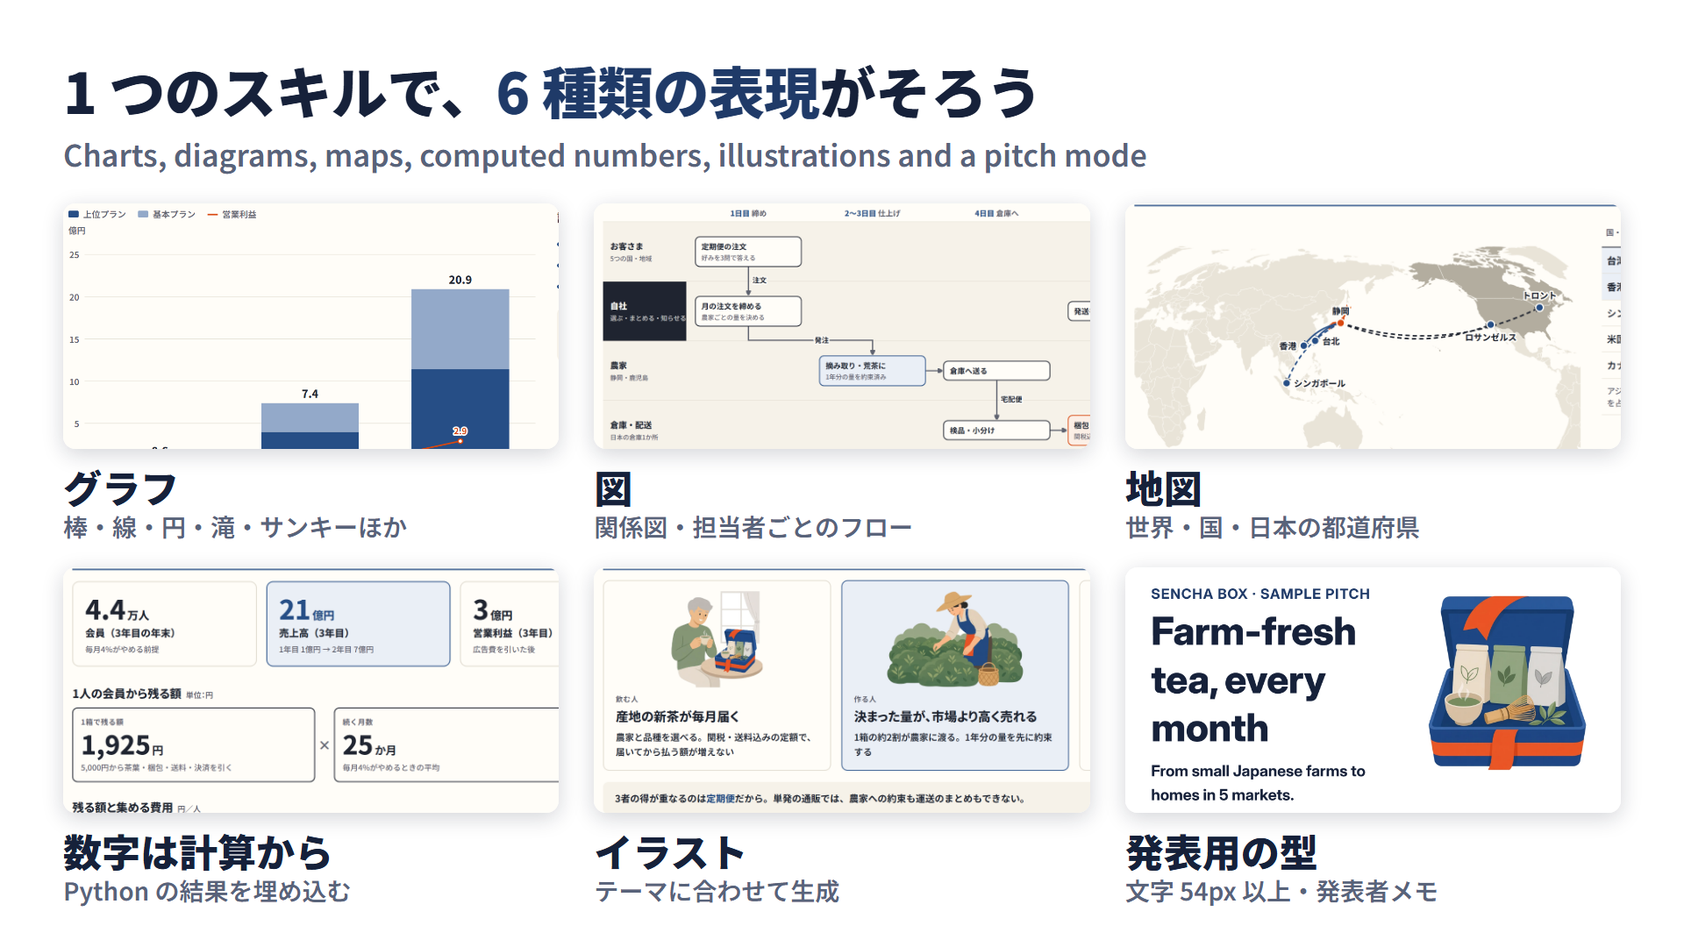
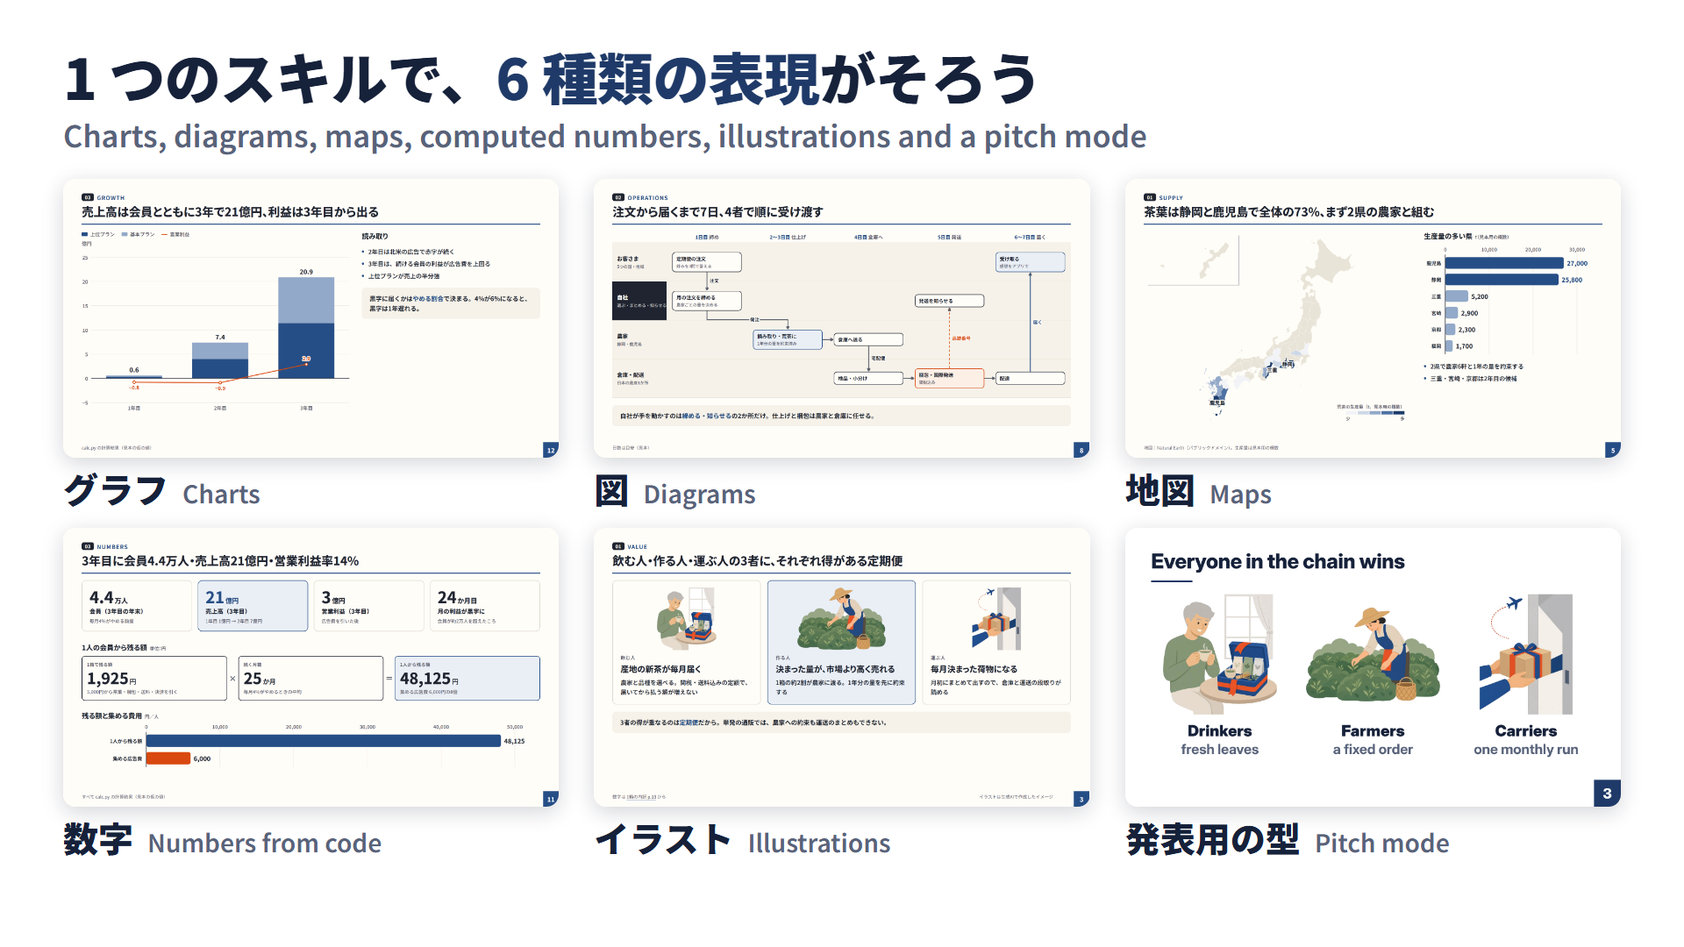
docs: detailed README with full demo slides for each feature
Show each capability (page pattern, charts, diagrams, maps, computed numbers, illustrations, pitch, checks, themes) with the actual demo slides and the code that produces them. features.png now shows whole slides instead of crops.

diff --git a/docs/figures/figures.html b/docs/figures/figures.html
@@ -451,8 +451,12 @@ body.presenter .np .next { font-size: 22px; margin-top: 26px; }
   #hero .stack img { position: absolute; width: 860px; border-radius: 12px; box-shadow: 0 20px 50px rgba(0, 0, 0, .35); }
 
   /* features */
-  .tiles { display: grid; grid-template-columns: repeat(3, 1fr); gap: 30px 40px; margin-top: 32px; }
-  .tiles .crop { height: 280px; }
+  #features { padding: 48px 72px; }
+  #features .fig-s { margin-top: 4px; }
+  .tiles { display: grid; grid-template-columns: repeat(3, 1fr); gap: 22px 40px; margin-top: 26px; }
+  .tiles .crop { aspect-ratio: 16 / 9; }
+  .tiles .lbl { display: flex; align-items: baseline; gap: 16px; font-size: 40px; margin-top: 12px; white-space: nowrap; }
+  .tiles .lbl small { display: inline; margin: 0; font-size: 28px; }
 
   /* workflow */
   .wf { display: grid; grid-template-columns: repeat(3, 1fr); gap: 48px 64px; margin-top: 44px; }
@@ -508,12 +512,12 @@ body.presenter .np .next { font-size: 22px; margin-top: 26px; }
   <div class="fig-h">1 つのスキルで、<em>6 種類の表現</em>がそろう</div>
   <div class="fig-s">Charts, diagrams, maps, computed numbers, illustrations and a pitch mode</div>
   <div class="tiles">
-    <div><div class="crop" data-src="../../examples/demo/png/12-growth.png" data-x="60" data-y="190" data-w="1100"></div><div class="lbl">グラフ<small>棒・線・円・滝・サンキーほか</small></div></div>
-    <div><div class="crop" data-src="../../examples/demo/png/08-lanes.png" data-x="50" data-y="200" data-w="1250"></div><div class="lbl">図<small>関係図・担当者ごとのフロー</small></div></div>
-    <div><div class="crop" data-src="../../examples/demo/png/04-markets.png" data-x="50" data-y="170" data-w="1150"></div><div class="lbl">地図<small>世界・国・日本の都道府県</small></div></div>
-    <div><div class="crop" data-src="../../examples/demo/png/11-kpi.png" data-x="50" data-y="170" data-w="1150"></div><div class="lbl">数字は計算から<small>Python の結果を埋め込む</small></div></div>
-    <div><div class="crop" data-src="../../examples/demo/png/03-value.png" data-x="50" data-y="170" data-w="1250"></div><div class="lbl">イラスト<small>テーマに合わせて生成</small></div></div>
-    <div><div class="crop" data-src="../../examples/demo/png-pitch/01-cover.png" data-x="0" data-y="0" data-w="1920"></div><div class="lbl">発表用の型<small>文字 54px 以上・発表者メモ</small></div></div>
+    <div><div class="crop" data-src="../../examples/demo/png/12-growth.png" data-x="0" data-y="0" data-w="1920"></div><div class="lbl">グラフ<small>Charts</small></div></div>
+    <div><div class="crop" data-src="../../examples/demo/png/08-lanes.png" data-x="0" data-y="0" data-w="1920"></div><div class="lbl">図<small>Diagrams</small></div></div>
+    <div><div class="crop" data-src="../../examples/demo/png/05-farms.png" data-x="0" data-y="0" data-w="1920"></div><div class="lbl">地図<small>Maps</small></div></div>
+    <div><div class="crop" data-src="../../examples/demo/png/11-kpi.png" data-x="0" data-y="0" data-w="1920"></div><div class="lbl">数字<small>Numbers from code</small></div></div>
+    <div><div class="crop" data-src="../../examples/demo/png/03-value.png" data-x="0" data-y="0" data-w="1920"></div><div class="lbl">イラスト<small>Illustrations</small></div></div>
+    <div><div class="crop" data-src="../../examples/demo/png-pitch/03-three.png" data-x="0" data-y="0" data-w="1920"></div><div class="lbl">発表用の型<small>Pitch mode</small></div></div>
   </div>
 </section>
 

diff --git a/README.md b/README.md
@@ -4,6 +4,7 @@
 
 **Cursor の Agent Skill：きれいな 1920×1080 の HTML スライドを、毎回同じ品質で作る。**
 グラフ・図・地図・計算の埋め込み・イラスト・PNG の書き出しと自動の検査まで 1 つに入っています。
+この README の画像は、すべてこのスキルで作った見本のスライド（`examples/demo/`）をそのまま書き出したものです。
 
 [日本語](#日本語) ・ [English](#english)
 
@@ -11,47 +12,234 @@
 
 ## 日本語
 
-### できること
+- [全体像](#全体像)
+- [使い方：頼むだけ](#使い方頼むだけ)
+- [できること（実際のスライド）](#できること実際のスライド)
+  - [1. ページの型：結論を言い切る見出し](#1-ページの型結論を言い切る見出し)
+  - [2. グラフ](#2-グラフ)
+  - [3. 図](#3-図)
+  - [4. 地図](#4-地図)
+  - [5. 数字は計算から](#5-数字は計算から)
+  - [6. イラスト](#6-イラスト)
+  - [7. 発表用の型（pitch）](#7-発表用の型pitch)
+  - [8. 崩れの自動検査](#8-崩れの自動検査)
+  - [9. テーマ](#9-テーマ)
+- [入れ方](#入れ方)・[手で使う](#手で使う)・[中身](#中身)・[ライセンス](#ライセンス)
+
+### 全体像
 
 ![グラフ・図・地図・数字・イラスト・発表用の型](docs/img/features.png)
 
-| | |
-|---|---|
-| **グラフ** | 縦棒・横棒・積み上げ（100% も）・棒と線の複合・線・面・ドーナツ・散布・バブル・滝・サンキー・ガント（自前の SVG） |
-| **図** | 関係図・担当者ごとのフロー図・循環図・ツリー。箱を並べると矢印は自動で引く |
-| **地図** | 世界・国ごと・日本の都道府県（沖縄の差し込み付き）の塗り分け・点・弧 |
-| **数字** | Python で計算した結果を埋め込み、スライドの数字とグラフが同じ元を指す。前提を変えても食い違わない |
-| **イラスト** | テーマごとに固定したスタイルで生成し、背景を透明にしてなじませる |
-| **オフライン** | 1 ファイルの HTML に全部を埋め込み、フォントも同梱。ネットなしで開ける |
+1 つの HTML ファイル（デッキ）に 1 ページ＝1 つの `<section>` を並べます。1920×1080 固定で、ブラウザの大きさに合わせて拡大縮小します。CSS・JS・データ・地図をファイルに埋め込み、フォント（Noto Sans JP・Inter）を同梱するので、**ネットなしで開けます**。
 
 ### 使い方：頼むだけ
 
 ![6 つの手順](docs/img/workflow.png)
 
-Cursor のチャットで「◯◯のスライドを作って」「グラフを入れて」「PNG に書き出して」と頼むと、Agent が [SKILL.md](SKILL.md) を読んで上の手順で仕上げます。
+Cursor のチャットで「◯◯の事業計画を 15 枚のスライドにして」「このページにグラフを入れて」「PNG に書き出して」と頼むと、Agent が [SKILL.md](SKILL.md) を読んで上の手順で仕上げます。最初に型（資料か発表か）・テーマ・言語を聞き、最後に全ページを検査して PNG を目で確かめます。
 
-### 崩れは自動で見つかる
+---
 
-![検査：直す前と直した後](docs/img/check.png)
+## できること（実際のスライド）
 
-Chrome で全ページを撮り、はみ出し・画面の外・小さすぎる文字・数字の抜けなどを赤枠で示します。「問題: なし」になるまで直してから書き出します。
+### 1. ページの型：結論を言い切る見出し
 
-### テーマと型
+![表紙](examples/demo/png/01-cover.png)
 
-![6 つのテーマ](docs/img/themes.png)
+<p>
+<img src="examples/demo/png/02-ch01.png" width="49%" alt="中扉">
+<img src="examples/demo/png/03-value.png" width="49%" alt="カードのページ">
+</p>
+
+どのページも **小見出し → 結論の 1 文（h1）→ 線 → 本文 → まとめの帯 → 注記** の同じ並びです。見出しは「市場規模」のような題名ではなく「アジアの 3 つの国・地域から始め、7 か月目に北米へ広げる」のように言い切るので、見出しだけ読めば話が通ります（書き方は [reference/writing.md](reference/writing.md)）。中扉には章の並びが自動で付き、今の章が分かります。
+
+```html
+<section id="value">
+  <div class="kicker"><span class="sec">01</span>VALUE</div>
+  <h1>飲む人・作る人・運ぶ人の3者に、それぞれ得がある定期便</h1>
+  <div class="rule"></div>
+  <div class="grid">
+    <div class="card"><img class="ill" src="illust/fan.webp" alt=""><div class="when">飲む人</div>
+      <h2>産地の新茶が毎月届く</h2><p>…</p></div>
+    <div class="card key">…</div>   <!-- key で強調（1 ページ 1〜2 か所） -->
+  </div>
+  <div class="strip">3者の得が重なるのは<b>定期便</b>だから。</div>
+  <div class="foot"><span>注記・出典</span></div>
+</section>
+```
+
+部品：カード・大きな数字（KPI）・足し算の流れ・時間の帯・表・横棒・左右の比べ・2×2・ピラミッド・ベン図・引用・画像（一覧は [reference/components.md](reference/components.md)）。
+
+### 2. グラフ
+
+![積み上げ棒と線の複合グラフ](examples/demo/png/12-growth.png)
+
+<p>
+<img src="examples/demo/png/13-unit.png" width="49%" alt="滝グラフ">
+<img src="examples/demo/png/14-mix.png" width="49%" alt="サンキーとドーナツ">
+</p>
+<p>
+<img src="examples/demo/png/15-members.png" width="49%" alt="面グラフと月次の棒">
+<img src="examples/demo/png/16-roadmap.png" width="49%" alt="ガント">
+</p>
+
+外部のライブラリを使わない自前の SVG で、テーマの色に自動で合います。上から **積み上げ棒＋線（右の軸も可）**、**滝**（1 箱の値段から利益まで）、**サンキー＋ドーナツ**、**面＋正負で色を変える棒**、**ガント**。ほかに横棒・100% 積み上げ・線・散布・バブル（下の「資料の見本の全 18 ページ」を開いた中の競合のページ）。`data-chart` に JSON を書くだけで描けます。
+
+```html
+<div class="chart" style="height:700px" data-chart='{
+  "type": "bar", "stacked": true, "labels": ["1年目","2年目","3年目"], "unit": "億円",
+  "series": [
+    {"name": "上位プラン", "values": "@byPlan.premium", "color": "accent"},
+    {"name": "基本プラン", "values": "@byPlan.standard", "color": "mid"},
+    {"name": "営業利益",   "values": "@op", "type": "line", "color": "warn"}
+  ]}'></div>
+```
+
+`"@byPlan.premium"` は計算結果（[5. 数字は計算から](#5-数字は計算から)）を指します。どのグラフを選ぶかの早見表は [reference/charts.md](reference/charts.md)。
+
+### 3. 図
+
+![担当者ごとのフロー図](examples/demo/png/08-lanes.png)
+
+<p>
+<img src="examples/demo/png/09-loop.png" width="49%" alt="関係図と循環図">
+<img src="examples/demo/png/17-base.png" width="49%" alt="ピラミッド">
+</p>
+
+**担当者ごとのフロー図**（行＝担当、列＝段階）、**関係図**（お金の流れは破線）、**循環図**、ピラミッド、ツリー。箱は HTML で並べ、矢印は箱の id をつなぐだけで自動で引きます（直線・カギ形・曲線、ラベルの位置も自動）。
+
+```html
+<div class="lanes dgm" style="--cols:5; --rows:4"
+     data-links='[["l1","l2","注文"],["l2","l3","発注"],["l6","l7","追跡番号",{"dash":true}],["l8","l9","届く",{"tone":"key"}]]'>
+  <div class="who">お客さま</div>
+  <div class="cell"><div class="box" id="l1">定期便の注文</div></div> …
+</div>
+```
+
+詳しくは [reference/diagrams.md](reference/diagrams.md)。
+
+### 4. 地図
+
+<p>
+<img src="examples/demo/png/04-markets.png" width="49%" alt="世界地図">
+<img src="examples/demo/png/05-farms.png" width="49%" alt="日本の都道府県の塗り分け">
+</p>
+
+**世界地図**（太平洋を中心に、国の塗り分け・都市の点・弧の矢印）と、**日本の都道府県の塗り分け**（凡例・沖縄の差し込み付き）。ほかに国ごとの地図も。Natural Earth のデータから SVG を作ってデッキに埋め込むので、ネットなしで表示でき、色はテーマに従います。
+
+```json
+{ "name": "markets", "pacific": true,
+  "fill":   { "TW": "accent", "HK": "accent", "SG": "mid", "US": "sub", "JP": "warn" },
+  "arcs":   [ { "from": [138.38, 34.98], "to": "Taipei", "cls": "accent" } ],
+  "points": [ { "city": "Taipei", "text": "台北", "label": "right" } ] }
+```
+
+```bash
+node scripts/make-map.mjs maps.json --into slides.html   # <!--MAP:markets--> の場所に書き込む
+```
+
+詳しくは [reference/maps.md](reference/maps.md)。
+
+### 5. 数字は計算から
+
+![KPI と計算の流れ](examples/demo/png/11-kpi.png)
+
+スライドの数字は手で打ちません。Python で計算した結果を JSON にしてデッキに埋め込み、`data-f` とグラフの `"@path"` で参照します。前提（やめる割合・広告費など）を 1 か所変えて 3 行を実行し直すと、**見出しの数字・カード・グラフ・地図がそろって変わり**、ページ間で数字が食い違いません。
+
+```python
+# data/calc.py（抜粋）
+CHURN = 0.04                                              # 毎月やめる割合
+COST = {"tea": 1100, "pack": 350, "ship": 1450, "pay_rate": 0.035}   # 1箱あたり
+…
+data = {
+    "rev": [oku(v) for v in rev_y],                                   # 年ごとの売上高（億円）
+    "members": [round(members[11]), round(members[23]), round(members[35])],
+    "life": round(1 / CHURN),                                         # 続く月数
+    …
+}
+(HERE / "data.json").write_text(json.dumps(data, ensure_ascii=False, indent=1), encoding="utf-8")
+```
+
+```html
+<h1>3年目に会員<span data-f="members.2" data-x="0.0001" data-d="1"></span>万人・売上高<span data-f="rev.2"></span>億円</h1>
+```
+
+```bash
+python data/calc.py
+node scripts/inject-data.mjs slides.html pitch.html data/data.json
+```
+
+書式は `data-d`（小数の桁）・`data-x`（掛ける数）・`data-u`（単位）・`data-sign`（＋を付ける）。流れは [reference/data.md](reference/data.md)。
+
+### 6. イラスト
+
+<p>
+<img src="examples/demo/illust/teabox.webp" width="24%" alt="">
+<img src="examples/demo/illust/fan.webp" width="24%" alt="">
+<img src="examples/demo/illust/farmer.webp" width="24%" alt="">
+<img src="examples/demo/illust/delivery.webp" width="24%" alt="">
+</p>
+
+表紙とカードの絵は Cursor の画像生成（GenerateImage）で描きます。**テーマごとに固定した画風の指示**（色・線・影・余白・文字なし）を毎回付け、2 枚目からは 1 枚目を参考画像に渡すので、1 つのデッキの絵がそろいます。`scripts/to_webp.py` で背景を透明にして webp にするので、和風の生成りやダークの背景にもなじみます（指示の全文は [reference/illustrations.md](reference/illustrations.md)）。
+
+### 7. 発表用の型（pitch）
+
+![発表の見本 7 枚](examples/demo/png-pitch/sheet.png)
+
+<p>
+<img src="examples/demo/png-pitch/02-say.png" width="49%" alt="大きな一言">
+<img src="examples/demo/png-pitch/05-number.png" width="49%" alt="大きな数字">
+</p>
+
+`--mode pitch` にすると、**文字はすべて 54px 以上**（検査が確かめる）、1 ページに 1 つのこと。大きな一言・大きな数字・絵 3 枚・地図・単純な棒・反転の締め、の部品があります。各ページに台本（`<aside class="notes">`）と終わりの目標時刻（`data-end="1:05"`）を書くと、**N** でメモを重ね、**P** でページ送りが連動する発表者用の窓（経過時間と目標）を開けます。資料（doc）と発表（pitch）は同じデータを共有できます。
 
 ![doc と pitch](docs/img/modes.png)
 
-<details>
-<summary>見本の全ページ（資料 18 枚・発表 7 枚）</summary>
+### 8. 崩れの自動検査
 
-架空の日本茶の定期便の事業計画を題材にした見本です（`examples/demo/`。数字は `data/calc.py` の計算、イラストは生成 AI）。
+![検査：直す前と直した後](docs/img/check.png)
+
+`export.mjs --check` が Chrome headless で全ページを描き、崩れを赤枠で示して一覧にします。
+
+| 理由 | 見つけるもの |
+|---|---|
+| `clipped` | 箱から文字があふれている |
+| `outside` | 1920×1080 の外へ出ている |
+| `on-foot` | 下の注記に重なっている |
+| `font` | 小さすぎる文字（doc は 16px、pitch は 54px 未満） |
+| `data-missing` | 参照した計算結果がない |
+| `map-empty` | 地図がまだ書き込まれていない |
+| `image-missing` | 画像が読めない |
+| `dup-id` | 同じ id が 2 か所（ページと図の箱など） |
+
+Agent は「問題: なし」になるまで直してから、PNG を書き出して目で確かめます。
+
+### 9. テーマ
+
+![6 つのテーマ](docs/img/themes.png)
+
+`green` `navy` `mono` `blue` `wa`（和風）`dark`。どれも **強調の色** と **お金・注意の色** の 2 色＋灰色で組み、グラフ・図・地図・イラストの指示が同じ色に合います。作った後でも 1 行で変えられます。
+
+```bash
+node scripts/deck.mjs set slides.html --theme dark
+node scripts/export.mjs slides.html --theme navy --out /tmp/navy   # 変えずに試し撮り
+```
+
+<details>
+<summary>資料の見本の全 18 ページ</summary>
+
+架空の日本茶の定期便の事業計画を題材にした見本です（`examples/demo/slides.html`。数字は `data/calc.py` の計算、イラストは生成 AI）。
 
 ![資料の見本（18 枚）](examples/demo/png/sheet.png)
 
-![発表の見本（7 枚）](examples/demo/png-pitch/sheet.png)
+<p>
+<img src="examples/demo/png/06-rivals.png" width="49%" alt="散布・バブル">
+<img src="examples/demo/png/18-risks.png" width="49%" alt="表とカード">
+</p>
 
 </details>
+
+---
 
 ### 入れ方
 
@@ -75,6 +263,8 @@ node $S/export.mjs ./my-deck/slides.html --check                                
 node $S/export.mjs ./my-deck/slides.html --sheet                                 # PNG と一覧の sheet.png
 ```
 
+ブラウザでは ← → ・スペースでページ送り、**F** で全画面。`slides.html#growth` のように id を付けるとそのページから開きます。
+
 ### 中身
 
 | パス | 中身 |
@@ -84,7 +274,7 @@ node $S/export.mjs ./my-deck/slides.html --sheet                                
 | `assets/` | テーマ・CSS・ランタイム・グラフ・図・フォント・地図のデータ |
 | `scripts/` | `deck.mjs`（作る・更新）`export.mjs`（書き出し・検査）`inject-data.mjs` `make-map.mjs` `to_webp.py` |
 | `templates/` | `deck new` の元（doc・pitch） |
-| `examples/demo/` | 見本のデッキと PNG |
+| `examples/demo/` | 見本のデッキ・計算・地図の仕様・PNG |
 | [examples/project-skill/SKILL.template.md](examples/project-skill/SKILL.template.md) | 案件ごとの約束（表記・出典・公開手順）を書くプロジェクトスキルのひな形 |
 | `docs/figures/` | この README の図（図もこのスキルで作っている。`node docs/figures/build.mjs` で作り直す） |
 
@@ -98,20 +288,27 @@ node $S/export.mjs ./my-deck/slides.html --sheet                                
 
 ## English
 
-**A Cursor Agent Skill for building polished 1920×1080 HTML slide decks with consistent quality** — charts, diagrams, maps, computed numbers, illustrations, PNG export and automatic layout checks in one package. (Figures above have English captions; the skill documentation is written in Japanese, and decks can be English with `--lang en`.)
+**A Cursor Agent Skill for building polished 1920×1080 HTML slide decks with consistent quality** — charts, diagrams, maps, computed numbers, illustrations, PNG export and automatic layout checks in one package. Every image here is a slide exported from the demo deck (`examples/demo/`). The skill documentation is written in Japanese; decks can be English (`--lang en`, see the pitch demo).
 
 ![Features](docs/img/features.png)
 
-- **Single-file HTML decks** — one `<section>` per slide (fixed 1920×1080, scaled to the window); CSS, JS, data and maps embedded, fonts bundled, **works offline**
-- **Two modes** — `doc` (self-explanatory handouts) and `pitch` (all text ≥ 54px, speaker notes, synced presenter window, target times)
-- **Six themes** — `green` `navy` `mono` `blue` `wa` (Japanese style) `dark`
-- **Built-in SVG charts** — column, bar, stacked (incl. 100%), bar + line combo, line, area, donut, scatter, bubble, waterfall, Sankey, Gantt
-- **Diagrams** — relationship diagrams, swimlane flows, cycles and trees; arrows are routed automatically
-- **Maps** — world, single countries, Japanese prefectures (with Okinawa inset), generated from Natural Earth
-- **Numbers come from code** — embed JSON from a Python model and reference it with `data-f="rev.y3"` or `"@path"`
-- **Automatic checks** — headless Chrome renders every slide and flags overflow, off-canvas elements, tiny text, missing data, empty maps, missing images and duplicate ids
+| | What you get | Example |
+|---|---|---|
+| **Page pattern** | Every slide: kicker → one-sentence takeaway headline → body → summary strip → footnote | [cover](examples/demo/png/01-cover.png), [cards](examples/demo/png/03-value.png) |
+| **Charts** | Built-in SVG: stacked bar + line (secondary axis), waterfall, Sankey, donut, area, Gantt, scatter/bubble — one JSON spec in `data-chart` | [growth](examples/demo/png/12-growth.png), [unit](examples/demo/png/13-unit.png), [mix](examples/demo/png/14-mix.png), [roadmap](examples/demo/png/16-roadmap.png) |
+| **Diagrams** | Swimlane flows, relationship diagrams (dashed = money), cycles, pyramids, trees; arrows routed automatically between box ids | [lanes](examples/demo/png/08-lanes.png), [loop](examples/demo/png/09-loop.png) |
+| **Maps** | World (Pacific-centered, fills, points, arcs), single countries, Japanese prefecture choropleth with Okinawa inset — generated from Natural Earth, embedded as SVG | [world](examples/demo/png/04-markets.png), [Japan](examples/demo/png/05-farms.png) |
+| **Numbers from code** | A Python model writes JSON; headlines, cards and charts reference it via `data-f` / `"@path"`, so numbers never drift | [kpi](examples/demo/png/11-kpi.png) |
+| **Illustrations** | Fixed per-theme style prompts for image generation + background removal to webp | [cards](examples/demo/png/03-value.png) |
+| **Pitch mode** | All text ≥ 54px (checked), speaker notes, synced presenter window with timer | [pitch sheet](examples/demo/png-pitch/sheet.png) |
+| **Automatic checks** | Headless Chrome flags overflow, off-canvas, tiny text, missing data, empty maps, missing images, duplicate ids | see below |
+| **Themes** | `green` `navy` `mono` `blue` `wa` `dark`, switchable in one command | see below |
+
+![Pitch demo](examples/demo/png-pitch/sheet.png)
 
 ![Automatic checks](docs/img/check.png)
+
+![Themes](docs/img/themes.png)
 
 ### Install
 
